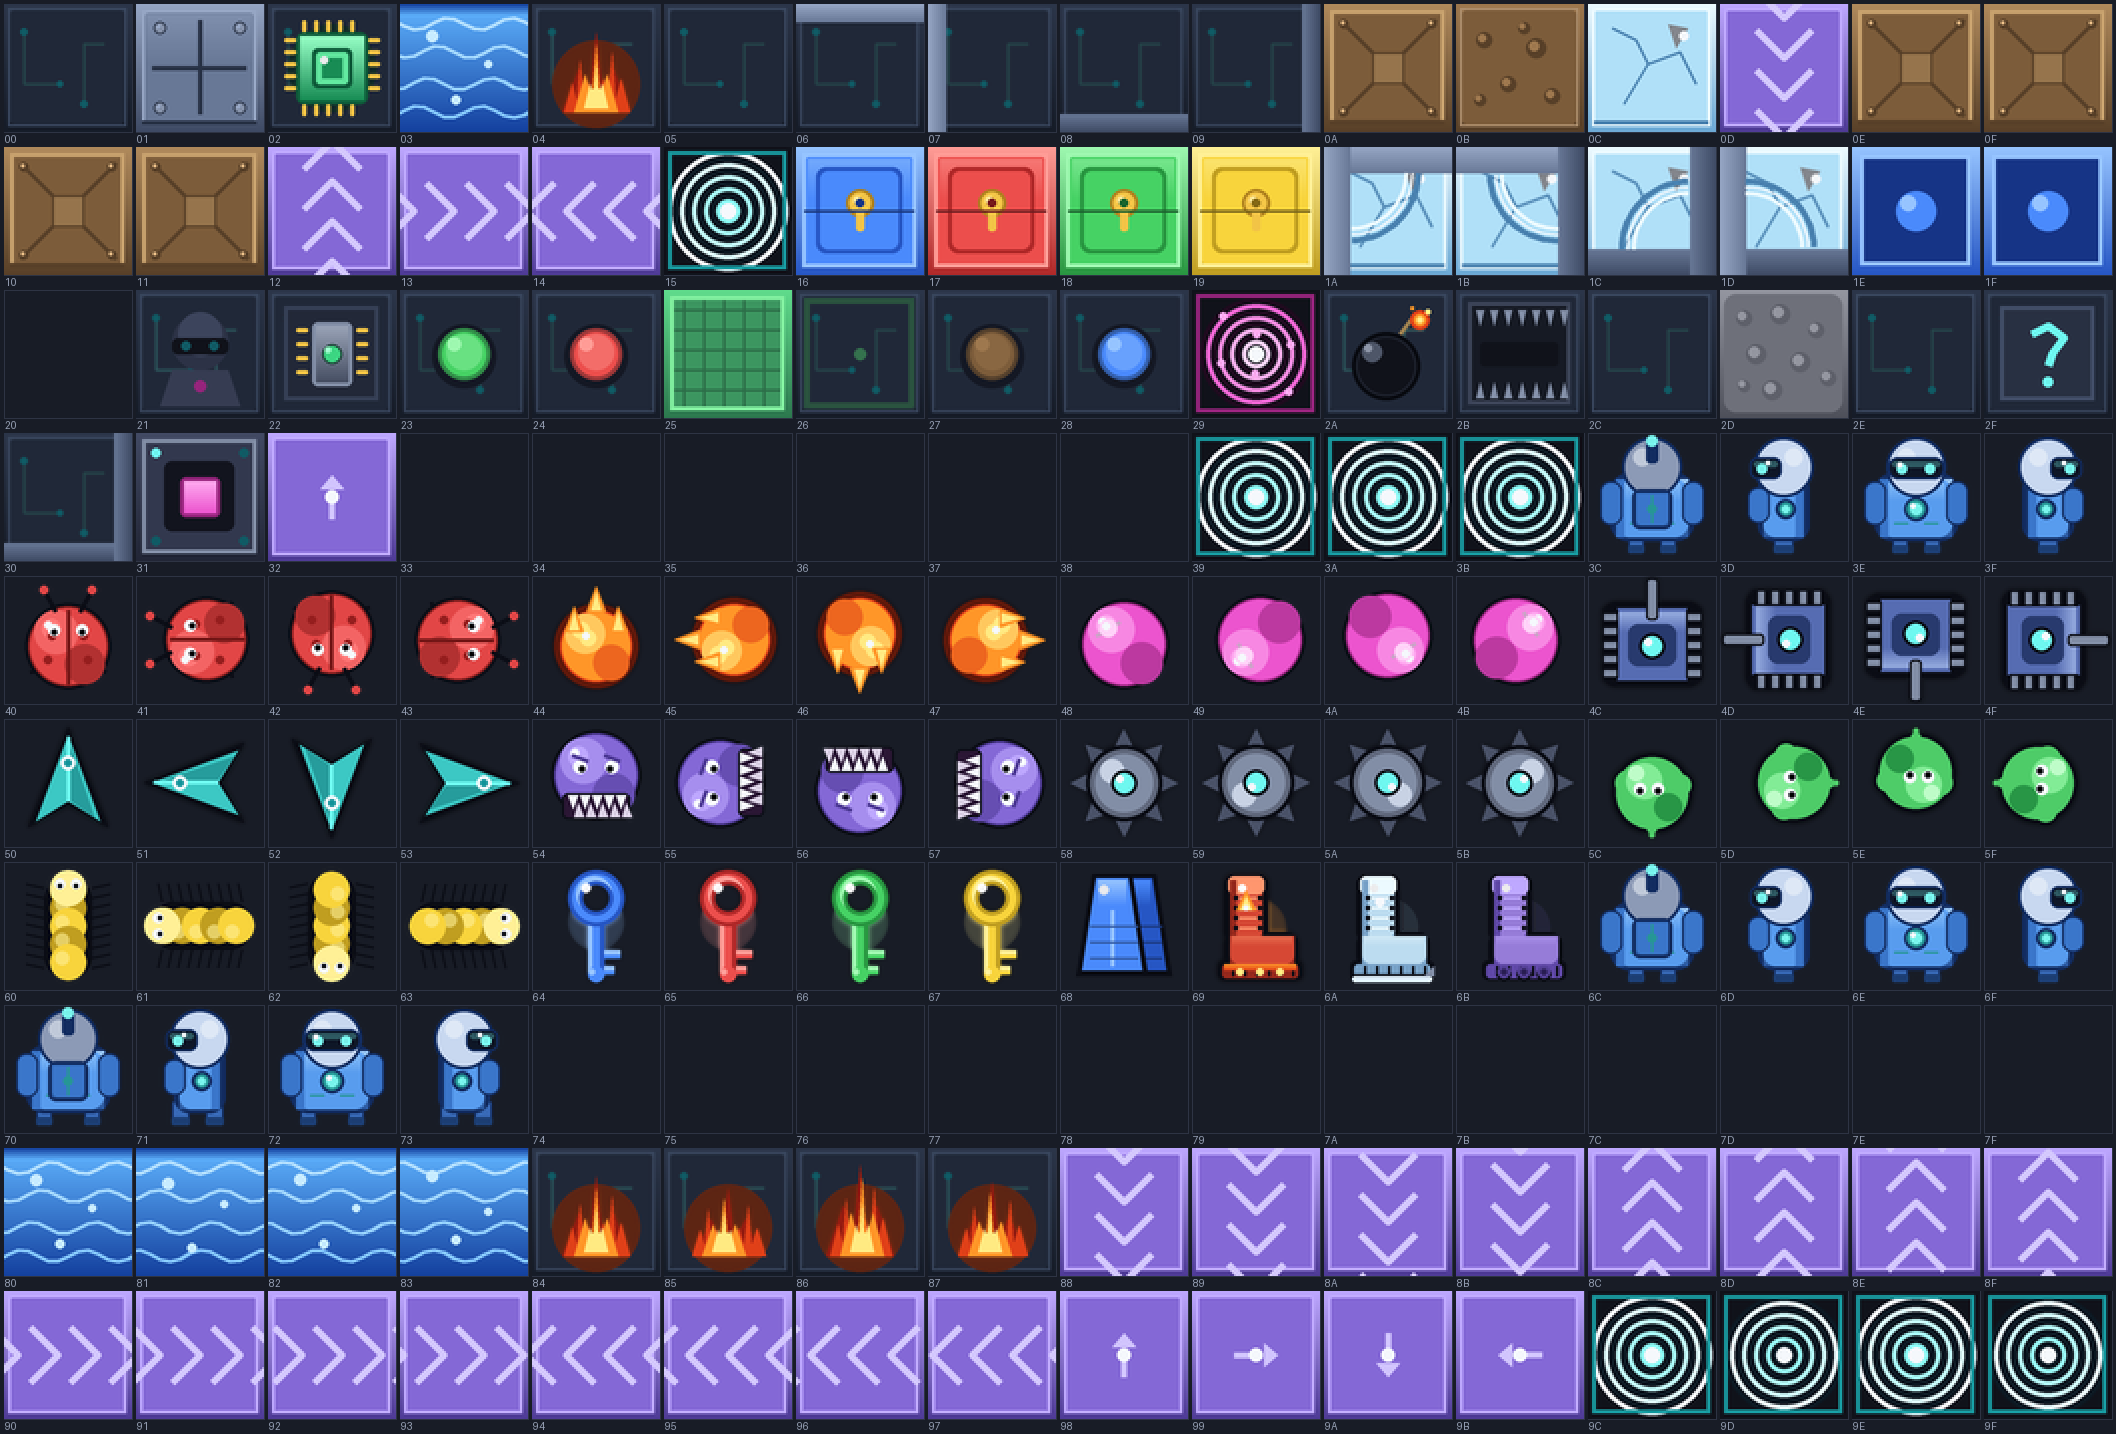
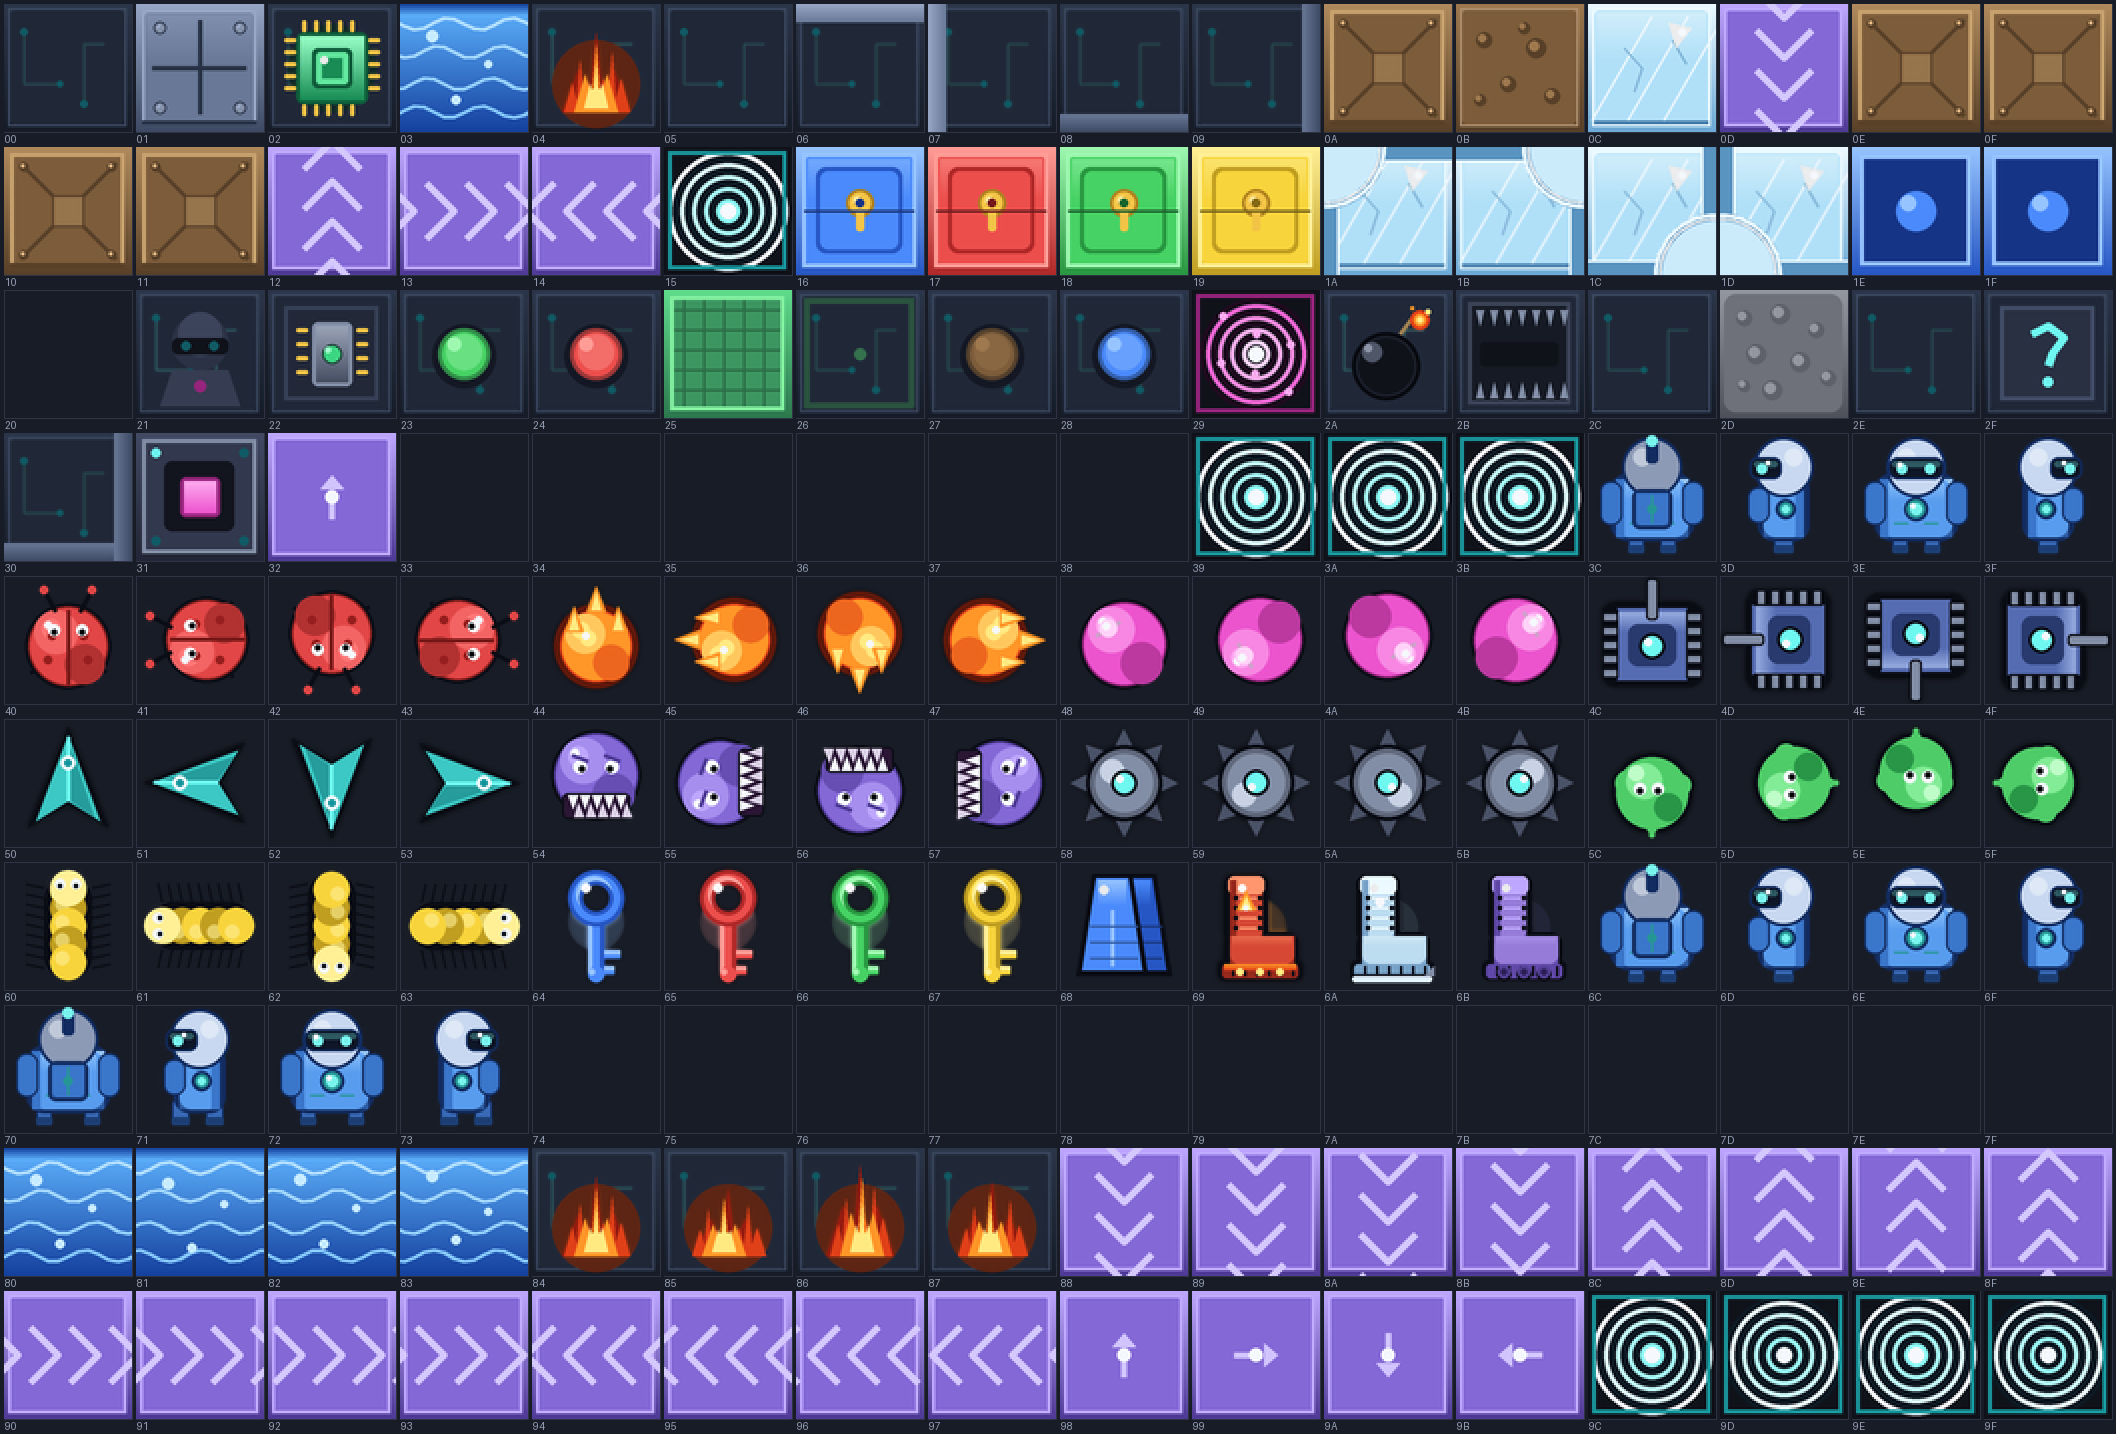
feat(circuitrunner): Eis + Eis-Ecken huebscher gezeichnet
Das Eis hatte harte dunkle Risse und die Ecken graue Metallwaende + duenne
Bogenlinien (unschoen). Neu:
- t_ice: glattes glossy Eis mit oberem Glanzfeld, diagonalem Frost-Schimmer
  (heller Eiston) und feinen weichen Haarrissen statt harter Risse.
- t_ice_corner: frostige Eis-Schienen (kein Metall) an den zwei geschlossenen
  Kanten + gerundeter Innen-Bumper am Eck mit glaenzender Slide-Kante; die
  Slide-Kurve ist jetzt eine glatte Viertelrundung. Orientierung unveraendert.

Sheet neu generiert; einzeln + als Eisfeld im Board per Screenshot verifiziert.

Changed region(s): [[0.6238, 0.0921, 0.8733, 0.2148], [0.7486, 0.0, 0.811, 0.0614]]

diff --git a/circuitrunner/make_tiles.py b/circuitrunner/make_tiles.py
@@ -225,40 +225,49 @@ def t_fire(frame=0):
 def t_ice():
     p = P()
     p.gv(0, 0, S, S, ICE_T, ICE_B)
-    p.rrect(2, 2, S - 3, S - 3, 6, ICE)
-    p.frame(2, 2, S - 3, S - 3, ICE_T, 1.5)
-    p.line([(3, S - 5), (S - 4, S - 5)], ICE_D, 2)
-    # Risse
-    p.line([(12, 12), (24, 18), (30, 30), (46, 24), (54, 40)], ICE_D, 1.4)
-    p.line([(18, 50), (30, 30)], ICE_D, 1.2)
-    # Glanz
-    p.poly([(40, 10), (50, 12), (44, 22)], (255, 255, 255, 120))
-    p.disc(48, 16, 2.4, WHITE)
+    p.rrect(2, 2, S - 3, S - 3, 7, ICE)
+    p.gv(4, 4, S - 5, 28, _mix(ICE, ICE_T, 0.55), ICE)        # oberes Glanzfeld
+    p.frame(2, 2, S - 3, S - 3, ICE_T, 1.4)
+    p.line([(3, S - 5), (S - 4, S - 5)], ICE_D, 2)            # untere Schattenkante
+    # zarte Frost-Streifen (heller Eiston, diagonal) statt harter Risse
+    frost = _mix(ICE_T, WHITE, 0.55)
+    for x0 in (2, 20, 38):
+        p.line([(x0, 58), (x0 + 30, 6)], frost, 1.1)
+    # feine, weiche Haarrisse
+    crack = _mix(ICE_D, ICE, 0.5)
+    p.line([(18, 22), (27, 32), (23, 44)], crack, 1.0)
+    p.line([(42, 18), (49, 30)], crack, 1.0)
+    # Glanzlichter
+    p.poly([(40, 9), (52, 12), (44, 22)], SHINE)
+    p.disc(47, 14, 2.0, WHITE)
     return p.finish()
 
 
 def t_ice_corner(closed):
     p = P()
     p.im.alpha_composite(t_ice().resize((W, W), Image.NEAREST))
-    tw = 13
+    rail = _mix(ICE_B, ICE_D, 0.55)                          # Eis-Schiene (kein Metall)
+    railhi = ICE_T
+    rw = 7
     edges = {"NW": ("N", "W"), "NE": ("N", "E"), "SE": ("S", "E"), "SW": ("S", "W")}[closed]
     for e in edges:
-        if e == "N": p.gv(0, 0, S, tw, WALL_T, WALL)
-        elif e == "S": p.gv(0, S - tw, S, S, WALL, WALL_B)
-        elif e == "W": p.gh(0, 0, tw, S, WALL_T, WALL)
-        else: p.gh(S - tw, 0, S, S, WALL, WALL_B)
-    cen = {"NW": (tw, tw), "NE": (S - tw, tw), "SE": (S - tw, S - tw), "SW": (tw, S - tw)}[closed]
+        if e == "N": p.rect(0, 0, S, rw, rail); p.line([(0, rw), (S, rw)], railhi, 1.4)
+        elif e == "S": p.rect(0, S - rw, S, S, rail); p.line([(0, S - rw), (S, S - rw)], railhi, 1.4)
+        elif e == "W": p.rect(0, 0, rw, S, rail); p.line([(rw, 0), (rw, S)], railhi, 1.4)
+        else: p.rect(S - rw, 0, S, S, rail); p.line([(S - rw, 0), (S - rw, S)], railhi, 1.4)
+    # gerundeter Innen-Bumper am Eck mit glaenzender Slide-Kante
+    cx, cy = {"NW": (0, 0), "NE": (S, 0), "SE": (S, S), "SW": (0, S)}[closed]
+    p.disc(cx, cy, 31, rail)
+    p.disc(cx, cy, 27, _mix(ICE, ICE_T, 0.45))
     a0, a1 = {"NW": (0, 90), "NE": (90, 180), "SE": (180, 270), "SW": (270, 360)}[closed]
-    cx, cy = cen
-    for r, col, wdt in ((34, ICE_D, 3), (28, ICE_T, 2), (31, WHITE, 1)):
+    for rr, col, wdt in ((30, railhi, 2.2), (28, SHINE, 1.3)):
         pts = []
         deg = a0
         while deg <= a1:
             a = math.radians(deg)
-            pts.append((cx + r * math.cos(a), cy + r * math.sin(a)))
-            deg += 4
-        if len(pts) > 1:
-            p.line(pts, col, wdt)
+            pts.append((cx + rr * math.cos(a), cy + rr * math.sin(a)))
+            deg += 3
+        p.line(pts, col, wdt)
     return p.finish()
 
 
